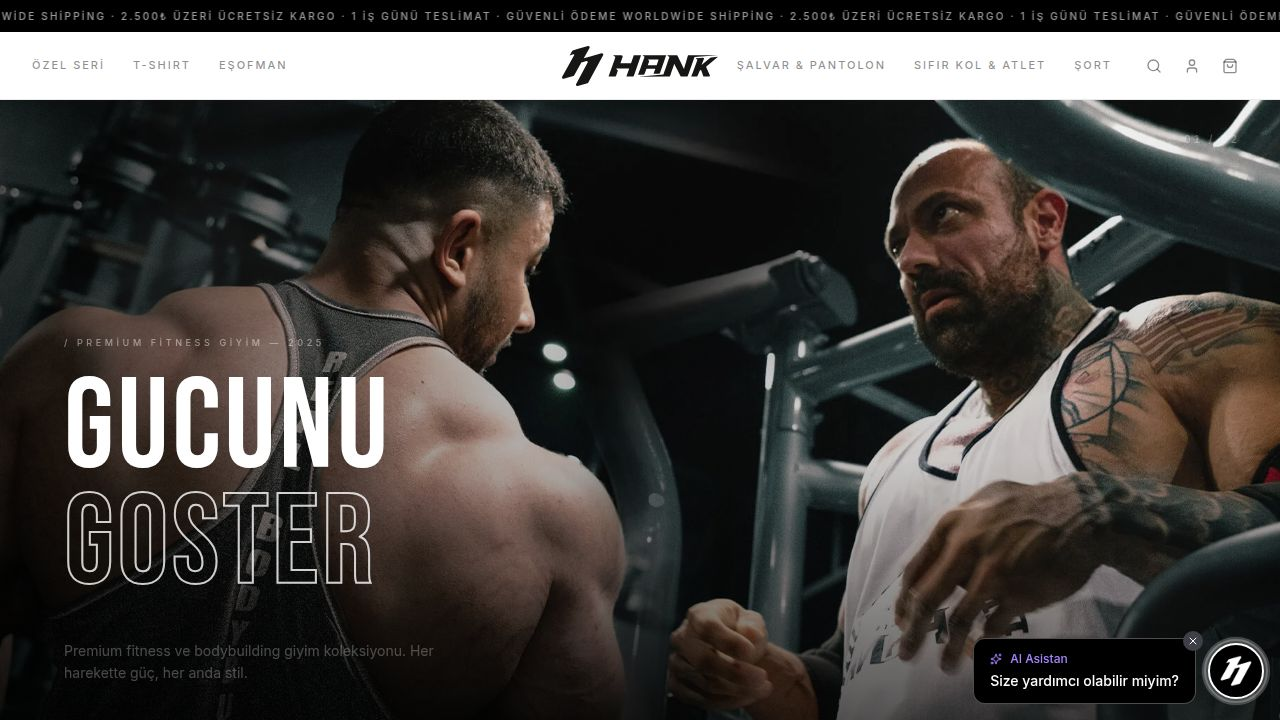
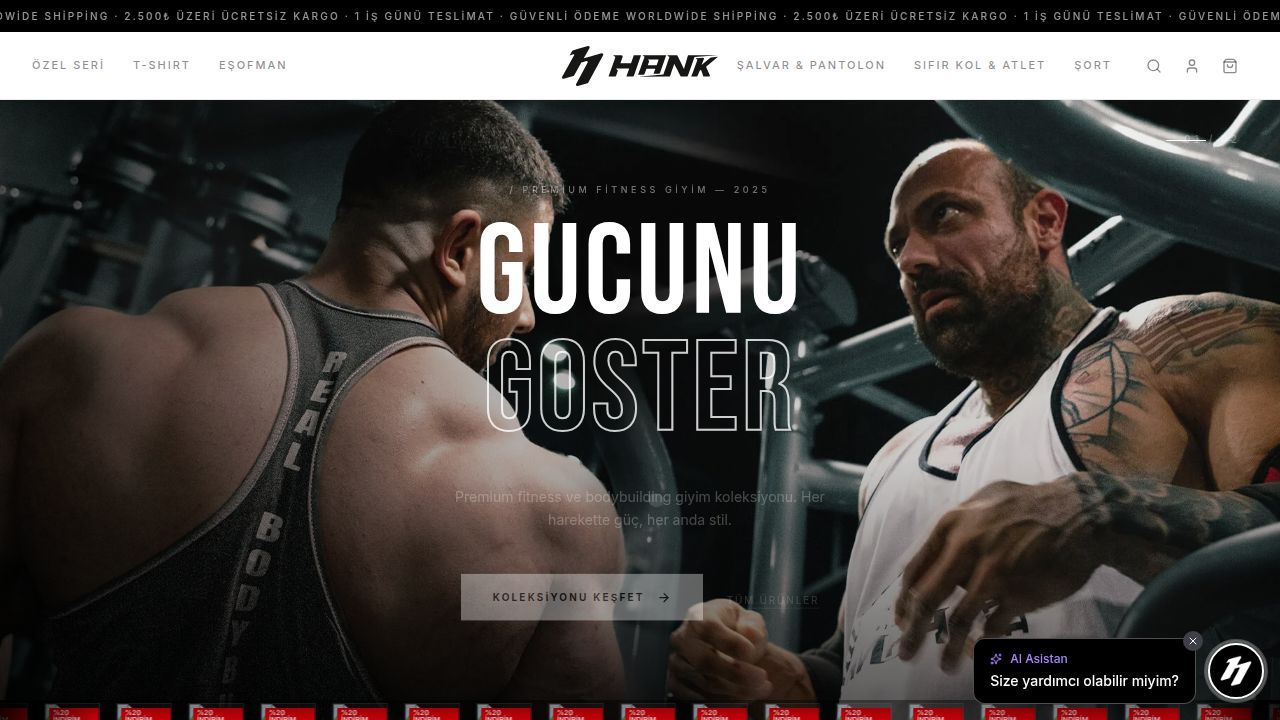
Update homepage to fix text display and improve product sections
Fixes Turkish character rendering by updating font import, removes gaps in featured product displays, and redesigns the manifesto section to include a product slider.

Replit-Commit-Author: Agent
Replit-Commit-Session-Id: da28de40-c124-4fa5-adff-9b4eaa5ef91a
Replit-Commit-Checkpoint-Type: full_checkpoint
Replit-Commit-Event-Id: 7adb3e33-1633-4dbd-8ec9-28cf406bb029
Replit-Commit-Screenshot-Url: https://storage.googleapis.com/screenshot-production-us-central1/a9963fd0-bbd1-41df-9011-ff90bef6639e/da28de40-c124-4fa5-adff-9b4eaa5ef91a/eTqdnCB
Replit-Helium-Checkpoint-Created: true

diff --git a/client/src/pages/Home.tsx b/client/src/pages/Home.tsx
@@ -336,10 +336,9 @@ export default function Home() {
               </Link>
             </div>
 
-            {/* Desktop: 1 large + 2 stacked + 4-col row */}
+            {/* Desktop: 1 large + 2 stacked + 2 stacked — no gaps, wall-to-wall */}
             <div className="hidden lg:block">
-              {/* Row 1: editorial */}
-              <div ref={productsSectionRef} className="flex gap-3 xl:gap-4 mb-3 xl:mb-4">
+              <div ref={productsSectionRef} className="flex">
                 {/* Large card */}
                 {featuredProducts[0] && (
                   <div className="flex-[1.5]">
@@ -347,20 +346,20 @@ export default function Home() {
                   </div>
                 )}
                 {/* Two stacked */}
-                <div className="flex-[1] flex flex-col gap-3 xl:gap-4">
+                <div className="flex-[1] flex flex-col">
                   {featuredProducts[1] && <EditorialCard product={featuredProducts[1]} size="md" />}
                   {featuredProducts[2] && <EditorialCard product={featuredProducts[2]} size="md" />}
                 </div>
                 {/* Two more stacked */}
-                <div className="flex-[1] flex flex-col gap-3 xl:gap-4">
+                <div className="flex-[1] flex flex-col">
                   {featuredProducts[3] && <EditorialCard product={featuredProducts[3]} size="md" />}
                   {featuredProducts[4] && <EditorialCard product={featuredProducts[4]} size="md" />}
                 </div>
               </div>
 
-              {/* Row 2: remaining products in 5-col grid (if any) */}
+              {/* Row 2: remaining products in 5-col grid, no gaps */}
               {featuredProducts.length > 5 && (
-                <div className="grid grid-cols-5 gap-3 xl:gap-4">
+                <div className="grid grid-cols-5">
                   {featuredProducts.slice(5, 10).map((product, i) => (
                     <motion.div
                       key={product.id}
@@ -377,21 +376,16 @@ export default function Home() {
               )}
             </div>
 
-            {/* Mobile: stacked layout */}
+            {/* Mobile: stacked layout, no gaps */}
             <div className="lg:hidden">
-              {/* First product: full width, tall */}
               {featuredProducts[0] && (
-                <div className="mb-3">
-                  <EditorialCard product={featuredProducts[0]} size="lg" />
-                </div>
+                <EditorialCard product={featuredProducts[0]} size="lg" />
               )}
-              {/* Next two: side by side */}
-              <div className="grid grid-cols-2 gap-3 mb-3">
+              <div className="grid grid-cols-2">
                 {featuredProducts[1] && <EditorialCard product={featuredProducts[1]} size="md" />}
                 {featuredProducts[2] && <EditorialCard product={featuredProducts[2]} size="md" />}
               </div>
-              {/* Remaining: standard product cards 2-col */}
-              <div className="grid grid-cols-2 gap-3">
+              <div className="grid grid-cols-2">
                 {featuredProducts.slice(3, 7).map((product, i) => (
                   <motion.div
                     key={product.id}
@@ -503,90 +497,155 @@ export default function Home() {
       </section>
 
       {/* ════════════════════════════════════════════
-          MANIFESTO — black statement
+          MANIFESTO — black statement + product slider
       ════════════════════════════════════════════ */}
-      <section className="bg-black py-16 lg:py-24 px-4 lg:px-10 overflow-hidden" data-testid="section-manifesto">
-        <div className="max-w-[1440px] mx-auto">
-          <div className="flex flex-col lg:flex-row lg:items-center lg:justify-between gap-8 lg:gap-20">
-            {/* Left: big text */}
-            <div className="flex-1">
-              <motion.p
-                initial={{ opacity: 0 }}
-                whileInView={{ opacity: 1 }}
-                viewport={{ once: true }}
-                transition={{ duration: 0.6 }}
-                className="text-[9px] tracking-[0.4em] uppercase text-white/25 mb-5 font-medium"
-              >
-                — Hank Felsefesi
-              </motion.p>
-              <div className="overflow-hidden">
-                <motion.h2
-                  initial={{ y: '100%' }}
-                  whileInView={{ y: '0%' }}
+      <section className="bg-black overflow-hidden" data-testid="section-manifesto">
+        {/* Top: text + stats */}
+        <div className="py-16 lg:py-24 px-4 lg:px-10 xl:px-14">
+          <div className="max-w-[1440px] mx-auto">
+            <div className="flex flex-col lg:flex-row lg:items-center lg:justify-between gap-8 lg:gap-20">
+              {/* Left: big text */}
+              <div className="flex-1">
+                <motion.p
+                  initial={{ opacity: 0 }}
+                  whileInView={{ opacity: 1 }}
                   viewport={{ once: true }}
-                  transition={{ duration: 1, ease: [0.16, 1, 0.3, 1] }}
-                  className="font-display text-white leading-[0.88] tracking-wide"
-                  style={{ fontSize: 'clamp(2.4rem, 6vw, 6rem)' }}
+                  transition={{ duration: 0.6 }}
+                  className="text-[9px] tracking-[0.4em] uppercase text-white/25 mb-5 font-medium"
                 >
-                  GÜÇ BİR
-                </motion.h2>
-              </div>
-              <div className="overflow-hidden">
-                <motion.h2
-                  initial={{ y: '100%' }}
-                  whileInView={{ y: '0%' }}
-                  viewport={{ once: true }}
-                  transition={{ duration: 1, delay: 0.1, ease: [0.16, 1, 0.3, 1] }}
-                  className="font-display leading-[0.88] tracking-wide"
-                  style={{
-                    fontSize: 'clamp(2.4rem, 6vw, 6rem)',
-                    color: 'transparent',
-                    WebkitTextStroke: '2px rgba(255,255,255,0.7)',
-                  }}
-                >
-                  İFADE BİÇİMİDİR.
-                </motion.h2>
-              </div>
-            </div>
-
-            {/* Right: stats + cta */}
-            <div className="flex-[0_0_auto] lg:w-72">
-              <motion.p
-                initial={{ opacity: 0 }}
-                whileInView={{ opacity: 1 }}
-                viewport={{ once: true }}
-                transition={{ duration: 0.7, delay: 0.3 }}
-                className="text-white/40 text-sm font-body leading-relaxed mb-8"
-              >
-                1000'den fazla sporcu HANK ile güçleniyor. Her koleksiyon, sınırları zorlamak için tasarlandı.
-              </motion.p>
-              <div className="grid grid-cols-2 gap-px bg-white/8 mb-8">
-                {[['1000+', 'Mutlu Sporcu'], ['5+', 'Yıl Deneyim'], ['%100', 'Türk Üretimi'], ['1 Gün', 'Teslimat']].map(([n, l], i) => (
-                  <motion.div
-                    key={i}
-                    initial={{ opacity: 0 }}
-                    whileInView={{ opacity: 1 }}
+                  — Hank Felsefesi
+                </motion.p>
+                <div className="overflow-hidden">
+                  <motion.h2
+                    initial={{ y: '100%' }}
+                    whileInView={{ y: '0%' }}
                     viewport={{ once: true }}
-                    transition={{ delay: 0.2 + i * 0.07 }}
-                    className="bg-black px-4 py-5"
+                    transition={{ duration: 1, ease: [0.16, 1, 0.3, 1] }}
+                    className="font-display text-white leading-[0.88] tracking-wide"
+                    style={{ fontSize: 'clamp(2.4rem, 6vw, 6rem)' }}
                   >
-                    <p className="font-display text-white text-3xl leading-none mb-1">{n}</p>
-                    <p className="text-[9px] tracking-[0.18em] uppercase text-white/30 font-medium">{l}</p>
-                  </motion.div>
-                ))}
+                    GÜÇ BİR
+                  </motion.h2>
+                </div>
+                <div className="overflow-hidden">
+                  <motion.h2
+                    initial={{ y: '100%' }}
+                    whileInView={{ y: '0%' }}
+                    viewport={{ once: true }}
+                    transition={{ duration: 1, delay: 0.1, ease: [0.16, 1, 0.3, 1] }}
+                    className="font-display leading-[0.88] tracking-wide"
+                    style={{
+                      fontSize: 'clamp(2.4rem, 6vw, 6rem)',
+                      color: 'transparent',
+                      WebkitTextStroke: '2px rgba(255,255,255,0.7)',
+                    }}
+                  >
+                    İFADE BİÇİMİDİR.
+                  </motion.h2>
+                </div>
               </div>
-              <Link href="/magaza" data-testid="button-manifesto-cta">
-                <motion.span
-                  whileHover={{ x: 4 }}
-                  className="group inline-flex items-center gap-3 border border-white/20 text-white text-[10px] tracking-[0.22em] uppercase font-semibold px-7 py-4 hover:bg-white hover:text-black transition-all duration-300 cursor-pointer"
+
+              {/* Right: stats + cta */}
+              <div className="flex-[0_0_auto] lg:w-72">
+                <motion.p
+                  initial={{ opacity: 0 }}
+                  whileInView={{ opacity: 1 }}
+                  viewport={{ once: true }}
+                  transition={{ duration: 0.7, delay: 0.3 }}
+                  className="text-white/40 text-sm font-body leading-relaxed mb-8"
                 >
-                  Koleksiyonu Keşfet
-                  <ArrowRight className="w-3.5 h-3.5 transition-transform group-hover:translate-x-1.5" />
-                </motion.span>
-              </Link>
+                  1000'den fazla sporcu HANK ile güçleniyor. Her koleksiyon, sınırları zorlamak için tasarlandı.
+                </motion.p>
+                <div className="grid grid-cols-2 gap-px bg-white/8 mb-8">
+                  {[['1000+', 'Mutlu Sporcu'], ['5+', 'Yıl Deneyim'], ['%100', 'Türk Üretimi'], ['1 Gün', 'Teslimat']].map(([n, l], i) => (
+                    <motion.div
+                      key={i}
+                      initial={{ opacity: 0 }}
+                      whileInView={{ opacity: 1 }}
+                      viewport={{ once: true }}
+                      transition={{ delay: 0.2 + i * 0.07 }}
+                      className="bg-black px-4 py-5"
+                    >
+                      <p className="font-display text-white text-3xl leading-none mb-1">{n}</p>
+                      <p className="text-[9px] tracking-[0.18em] uppercase text-white/30 font-medium">{l}</p>
+                    </motion.div>
+                  ))}
+                </div>
+                <Link href="/magaza" data-testid="button-manifesto-cta">
+                  <motion.span
+                    whileHover={{ x: 4 }}
+                    className="group inline-flex items-center gap-3 border border-white/20 text-white text-[10px] tracking-[0.22em] uppercase font-semibold px-7 py-4 hover:bg-white hover:text-black transition-all duration-300 cursor-pointer"
+                  >
+                    Koleksiyonu Keşfet
+                    <ArrowRight className="w-3.5 h-3.5 transition-transform group-hover:translate-x-1.5" />
+                  </motion.span>
+                </Link>
+              </div>
             </div>
           </div>
         </div>
+
+        {/* Divider */}
+        <div className="h-px bg-white/6 mx-4 lg:mx-10 xl:mx-14" />
+
+        {/* Product slider strip */}
+        {allProducts.length > 0 && (
+          <div className="py-8 overflow-hidden">
+            <div className="flex items-center justify-between px-4 lg:px-10 xl:px-14 mb-6">
+              <p className="text-[9px] tracking-[0.35em] uppercase text-white/25 font-medium">03 — Koleksiyon</p>
+              <Link href="/magaza" className="text-[9px] tracking-[0.2em] uppercase text-white/30 hover:text-white transition-colors font-medium flex items-center gap-1.5">
+                Tümünü Gör <ArrowRight className="w-2.5 h-2.5" />
+              </Link>
+            </div>
+            <div className="relative">
+              {/* Fade edges */}
+              <div className="absolute inset-y-0 left-0 w-16 z-10 pointer-events-none" style={{ background: 'linear-gradient(to right, #000, transparent)' }} />
+              <div className="absolute inset-y-0 right-0 w-16 z-10 pointer-events-none" style={{ background: 'linear-gradient(to left, #000, transparent)' }} />
+              {/* Scrolling track */}
+              <div className="flex animate-marquee-slow" style={{ width: 'max-content' }}>
+                {[...allProducts, ...allProducts, ...allProducts].map((p, i) => {
+                  const img = p.images?.[0];
+                  const price = parseFloat(p.basePrice);
+                  return (
+                    <Link
+                      key={`manifesto-${p.id}-${i}`}
+                      href={`/urun/${p.slug}`}
+                      className="group flex-shrink-0 mx-1.5 w-40 lg:w-48"
+                      data-testid={`link-manifesto-product-${p.id}-${i}`}
+                    >
+                      {/* Image */}
+                      <div className="relative w-full h-52 lg:h-64 overflow-hidden bg-white/4 border border-white/8 group-hover:border-white/25 transition-colors duration-300">
+                        {img ? (
+                          <img
+                            src={img}
+                            alt={p.name}
+                            className="w-full h-full object-cover object-top opacity-70 group-hover:opacity-100 group-hover:scale-105 transition-all duration-500"
+                          />
+                        ) : (
+                          <div className="w-full h-full bg-white/5" />
+                        )}
+                        {p.discountBadge && (
+                          <div className="absolute top-2 left-2 bg-white text-black text-[8px] font-black px-1.5 py-0.5 tracking-widest">
+                            {p.discountBadge}
+                          </div>
+                        )}
+                      </div>
+                      {/* Info */}
+                      <div className="pt-2.5 pb-1">
+                        <p className="font-display text-white/80 group-hover:text-white transition-colors text-sm tracking-wide leading-tight truncate">
+                          {p.name.toUpperCase()}
+                        </p>
+                        <p className="text-white/35 text-[11px] mt-0.5 font-medium">
+                          {price.toLocaleString('tr-TR')} ₺
+                        </p>
+                      </div>
+                    </Link>
+                  );
+                })}
+              </div>
+            </div>
+          </div>
+        )}
       </section>
 
       {/* ════════════════════════════════════════════

diff --git a/client/index.html b/client/index.html
@@ -35,7 +35,8 @@
     <link rel="dns-prefetch" href="https://fonts.gstatic.com" />
     
     <!-- Optimized font loading with display=swap for faster render -->
-    <link href="https://fonts.googleapis.com/css2?family=Space+Grotesk:wght@400;500;600;700&family=Bebas+Neue&family=Inter:wght@400;500;600&display=swap" rel="stylesheet" />
+    <link href="https://fonts.googleapis.com/css2?family=Space+Grotesk:wght@400;500;600;700&family=Inter:wght@400;500;600&display=swap" rel="stylesheet" />
+    <link href="https://fonts.googleapis.com/css2?family=Bebas+Neue&subset=latin,latin-ext&display=swap" rel="stylesheet" />
     
     <!-- Meta Pixel Code -->
     <script>
